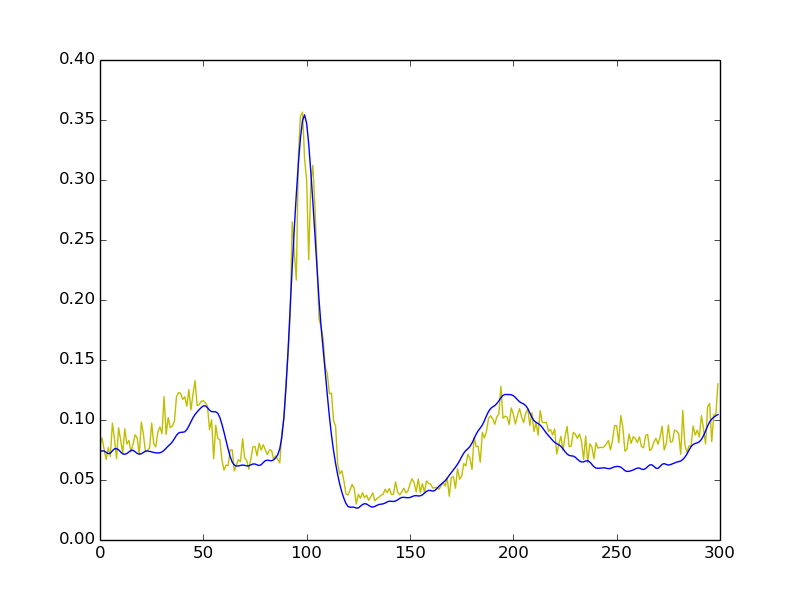
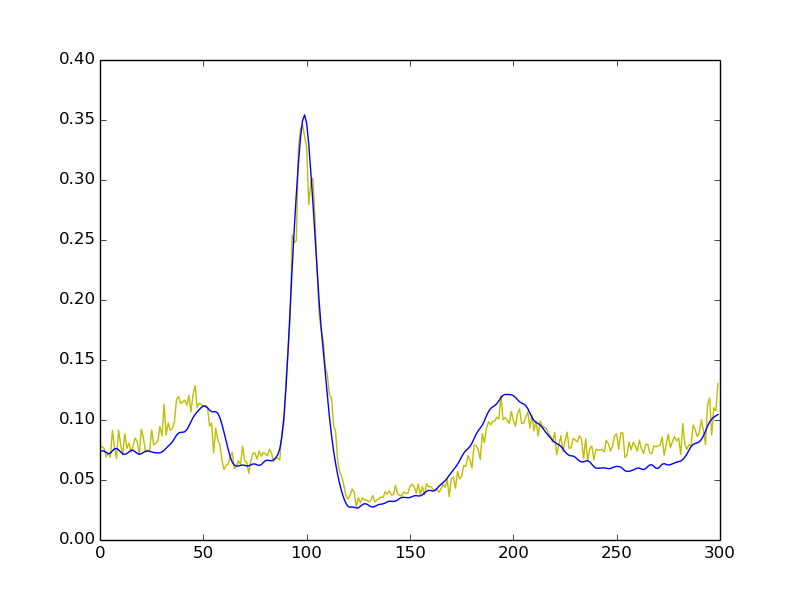
pretrainng set to 0.01

diff --git a/dA.py b/dA.py
@@ -262,7 +262,7 @@ class dA(object):
         return (cost, updates)
 
 
-def test_dA(learning_rate=0.001, training_epochs=50,
+def test_dA(learning_rate=0.01, training_epochs=50,
             dataset='mnist.pkl.gz',
             batch_size=1, output_folder='dA_plots'):
 
